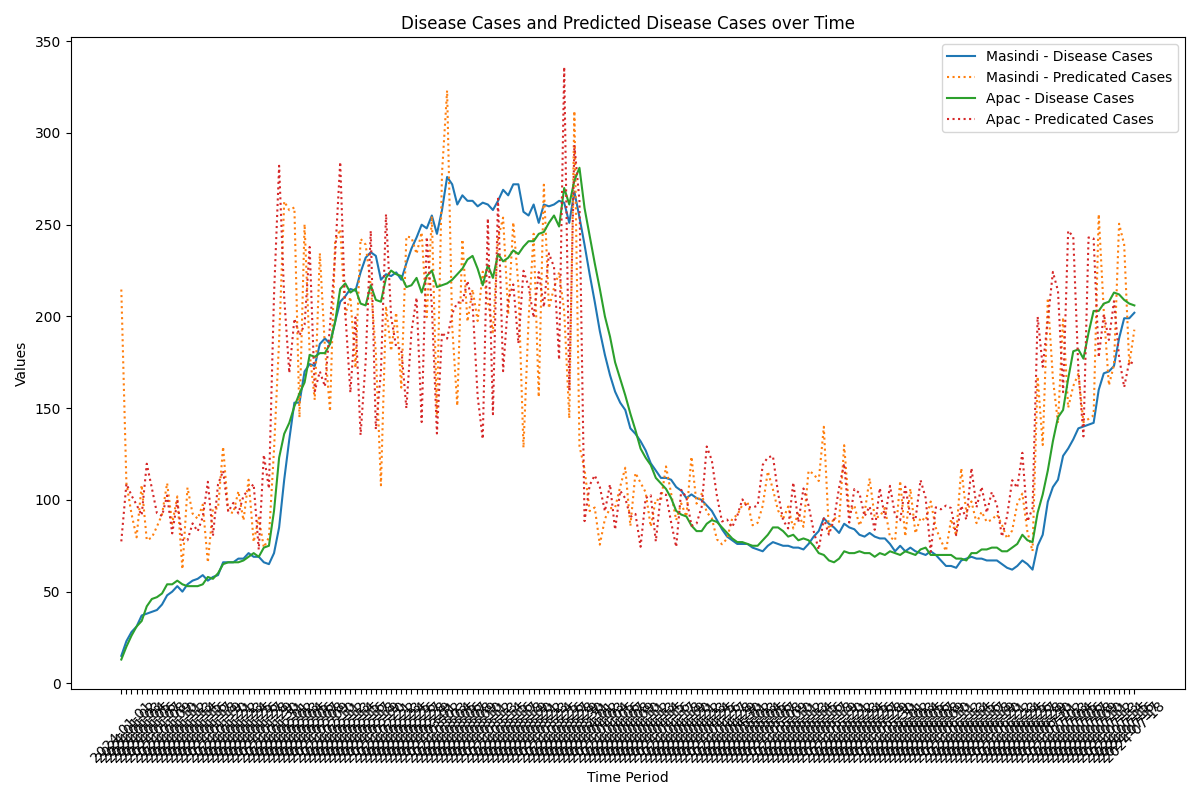
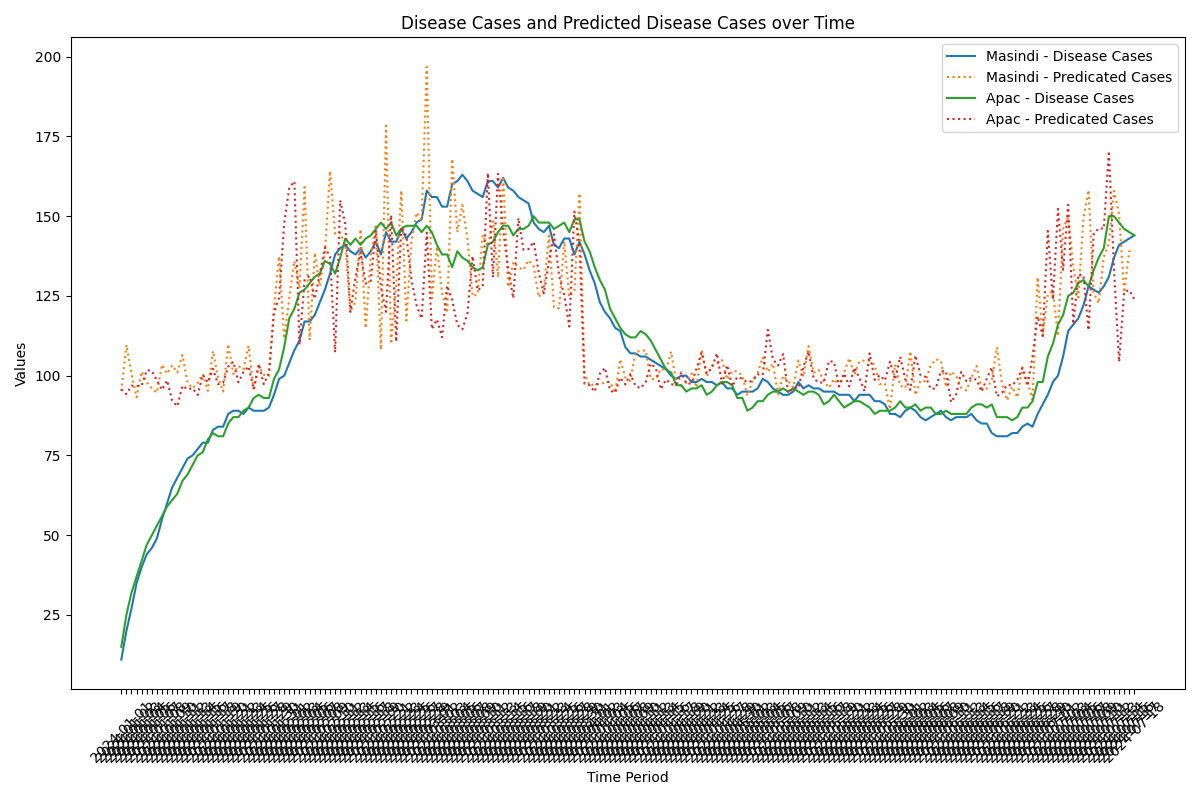
Added simulation without lag for comparison and report. Adjusted temperature fluctuations.

diff --git a/scripts/testing.py b/scripts/testing.py
@@ -30,8 +30,37 @@ sim = Simulation(
     simulation_length=1000,
     time_granularity="D",
     rain_season=[RainSeason(start=30, end=90), RainSeason(start=180, end=250)],
-    beta_rainfall=0.3,
+    beta_rainfall=0.1,
+    beta_temp=0.1,
     beta_lag_sickness=0.9,
+)
+sim.simulate()
+sim.simulated_data_to_csv(filepath=f"datasets/{filename}.csv")
+
+train_test_split_csv(f"datasets/{filename}.csv", "datasets/splitted_datasets/")
+
+train(f"datasets/splitted_datasets/{filename}_train.csv", model)
+predict(
+    model,
+    "",
+    f"datasets/splitted_datasets/{filename}_x_test.csv",
+    f"datasets/predictions/{filename}_predictions.csv",
+)
+plot_data_with_sample_0(
+    f"datasets/splitted_datasets/{filename}_y_test.csv",
+    f"datasets/predictions/{filename}_predictions.csv",
+    f"figures/{filename}.png",
+)
+
+filename = "without_sickness_lag"
+model = f"model_{filename}"
+sim = Simulation(
+    simulation_length=1000,
+    time_granularity="D",
+    rain_season=[RainSeason(start=30, end=90), RainSeason(start=180, end=250)],
+    beta_rainfall=0.9,
+    beta_temp=0.3,
+    beta_lag_sickness=0.3,
 )
 sim.simulate()
 sim.simulated_data_to_csv(filepath=f"datasets/{filename}.csv")

diff --git a/src/mestDS/simulate/main.py b/src/mestDS/simulate/main.py
@@ -171,9 +171,9 @@ def is_rain_season(week, rain_seasons, time_granularity, i):
 def get_temperature_new(week_number, time_granularity, i):
     if time_granularity == "D":
         day = i % 365
-        seasonal_temp = 20 + 10 * np.sin(2 * np.pi * day / 365)
+        seasonal_temp = 24 + 5 * np.sin(2 * np.pi * day / 365)
     else:
-        seasonal_temp = 20 + 10 * np.sin(2 * np.pi * week_number / 52)
+        seasonal_temp = 24 + 5 * np.sin(2 * np.pi * week_number / 52)
 
     random_noise = np.random.normal(0, 2)
     return seasonal_temp + random_noise
@@ -194,17 +194,15 @@ def get_disease_cases_new(
     beta_rainfall,
     beta_temp,
     beta_lag_sickness,
-    noise_std=1,
+    noise_std,
 ):
     noise = np.random.laplace(0, noise_std)
 
     sickness = (
-        #        intercept
-        beta_rainfall * rainfall
+        intercept
+        + beta_rainfall * rainfall
         + beta_temp * temperature
         + beta_lag_sickness * prev_sickness
         + noise
     )
-
-    # print(round(sickness))
     return round(sickness)

diff --git a/src/mestDS/classes/Simulation.py b/src/mestDS/classes/Simulation.py
@@ -68,10 +68,10 @@ class Simulation:
         # normal_dist_mean=0.5,
         # normal_dist_stddev=0.3,
         # normal_dist_scale=10,
-        beta_rainfall=0.2,
-        beta_temp=0.1,
-        beta_lag_sickness=0.7,
-        noise_std=0.3,
+        beta_rainfall=0.5,
+        beta_temp=0.5,
+        beta_lag_sickness=0.5,
+        noise_std=1,
     ):
         self.time_granularity = time_granularity
         self.simulation_length = simulation_length
